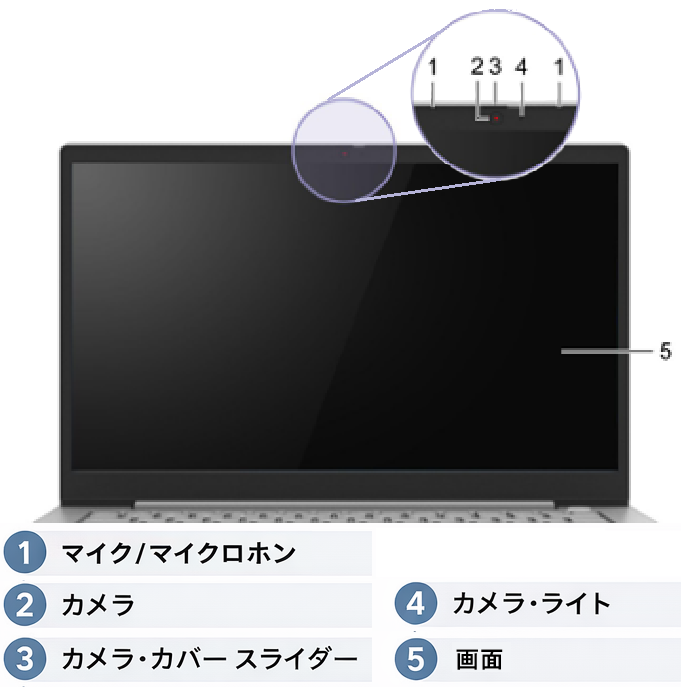
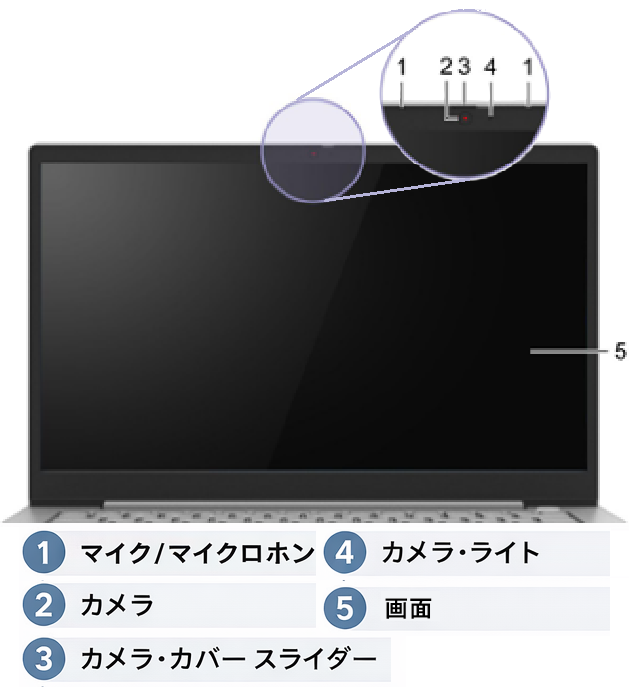
画像調整

diff --git a/pre-interview-checks/usage-device.html b/pre-interview-checks/usage-device.html
@@ -1,4 +1,4 @@
-<!DOCTYPE html>
+<!DOCTYPE html>
 <html lang="ja">
 <head>
   <meta charset="UTF-8">
@@ -34,25 +34,26 @@
             <article class="card">
               <h2 class="block-title">確認しておきたい項目</h2><br>
               <ul class="list">
-                <li>支給されるノートパソコンのカメラ位置<br>※当校で貸し出すノートパソコンのカメラはスライドカバーで普段は閉められています</li>
+                <li>支給されるノートパソコンのカメラ位置<br>※当校で貸し出すノートパソコンのカメラは普段はスライドで閉められています</li>
                 <li>マイクの位置やスピーカーの音量/Fnロックの確認</li>
                 <li>充電状態、電源ケーブルの接続</li>
-                <li>外付けモニターを使用する場合の表示設定<br>※詳しくは【１－２】で説明します</li>
+                <li>外付けモニターを使用する場合の表示設定</li>
                 <li>通信環境の確認</li>
               </ul>
             </article>
             <article class="note">
-              <p class="text">上記記述の通り、当校で貸し出すノートパソコンのカメラは、<br>画面上部のスライド式カバーで隠れています。<br>面接前に、カメラが使用可能な状態になっているか確認しておきましょう。</p>
-              <p class="text">音量は、音量ミキサー、またはキーボードのファンクションキーで調整できます。<br>事前に操作方法を確認しましょう。</p>
+              <p class="text">上述の通り、当校で貸し出すノートパソコンのカメラは、<br>画面上部のスライド式カバーで隠れています。<br>面接前に、カメラが使用可能な状態か確認しましょう。</p>
+              <p class="text">音量は、音量ミキサーやキーボードのFキーで調整できます。<br>事前に操作方法を確認しましょう。</p>
               <p class="text">Fnキーのロック状態で操作方法が変わるため、<br>ロック解除方法も確認しておくと安全です。</p>
               <p class="text">また、本校として、Wi-Fiはできる限り安定に努めていますが、<br>面談室以外を使用する場合は留意してください。<br>
                 有線接続や別回線、再入室手段を用意しておくと、<br>面接時の不安を減らせます。</p>
             </article>
           </div>
-          <aside class="image-panel detail-visual usage-device-visual" aria-label="使用機材イメージ">
-            <div class="image-frame">
+                    <aside class="image-panel detail-visual usage-device-visual" aria-label="使用機材のイメージ">
+            <picture class="image-frame">
+              <source media="(max-width: 960px)" srcset="../image/ノートパソコン画面_960px以下.png">
               <img src="../image/ノートパソコン画面.png" alt="ノートパソコン画面">
-            </div>
+            </picture>
             <div class="image-frame">
               <img src="../image/キーボードFnキー.png" alt="キーボードのFnキー">
             </div>

diff --git a/css/pre-interview-checks-detail.css b/css/pre-interview-checks-detail.css
@@ -171,6 +171,11 @@
     flex: 0 0 auto;
   }
 
+  .usage-device-visual picture.image-frame {
+    display: block;
+    width: 100%;
+  }
+
   .audio-camera-hero {
     grid-template-columns: minmax(0, 1.08fr) minmax(320px, 0.92fr);
     grid-template-rows: auto auto auto auto;
